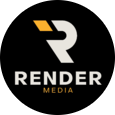
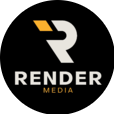
Updates

diff --git a/sw.js b/sw.js
@@ -1,1 +1,1 @@
-if(!self.define){let s,e={};const i=(i,n)=>(i=new URL(i+".js",n).href,e[i]||new Promise((e=>{if("document"in self){const s=document.createElement("script");s.src=i,s.onload=e,document.head.appendChild(s)}else s=i,importScripts(i),e()})).then((()=>{let s=e[i];if(!s)throw new Error(`Module ${i} didn’t register its module`);return s})));self.define=(n,r)=>{const o=s||("document"in self?document.currentScript.src:"")||location.href;if(e[o])return;let l={};const u=s=>i(s,o),a={module:{uri:o},exports:l,require:u};e[o]=Promise.all(n.map((s=>a[s]||u(s)))).then((s=>(r(...s),l)))}}define(["./workbox-1ea6f077"],(function(s){"use strict";self.skipWaiting(),s.clientsClaim(),s.precacheAndRoute([{url:"android-chrome-144x144.png",revision:"f4e79248ad653955ac52f59e81cec89b"},{url:"android-chrome-192x192.png",revision:"ec9118323e19bd6fac33a8bc283b7a27"},{url:"android-chrome-512x512.png",revision:"3a562bc1f7c58152f20265c55b659588"},{url:"apple-touch-icon.png",revision:"fdf0453c9d4116adea0f4927da5cb14f"},{url:"assets/AppLayout-BZPnjsqT.js",revision:null},{url:"assets/AppLayout-CiV0uM38.css",revision:null},{url:"assets/background-icons-C3MNEZqM.svg",revision:null},{url:"assets/BecomeFreelancerView-Bh7CBGfS.css",revision:null},{url:"assets/BecomeFreelancerView-CBme_Z3Y.js",revision:null},{url:"assets/BookingList-BSCRSiwz.js",revision:null},{url:"assets/BookingList-D3RhOOKQ.css",revision:null},{url:"assets/Filming-Location-Background-Dz1fLR32.png",revision:null},{url:"assets/GuestLayout-C_GWFsC3.js",revision:null},{url:"assets/GuestLayout-XMdYVgxi.css",revision:null},{url:"assets/HomeView-BslL6GI0.css",revision:null},{url:"assets/HomeView-BuMfaCQF.js",revision:null},{url:"assets/index-CHzuE5wu.js",revision:null},{url:"assets/index-DSbaSbUD.js",revision:null},{url:"assets/index-vnNXSMUm.css",revision:null},{url:"assets/LoginView-CvuKcC4c.js",revision:null},{url:"assets/MazBadge-CIY0hr5U.css",revision:null},{url:"assets/MazBadge.AdlIDWRs-CqLGBU8U.js",revision:null},{url:"assets/MazSpinner-DQ9_cbMH.css",revision:null},{url:"assets/MazSpinner.Dl1PcqAK-CtqHbj0T.js",revision:null},{url:"assets/no-bookings-found-57le8Je1.js",revision:null},{url:"assets/no-bookings-found-BluZXIsf.png",revision:null},{url:"assets/no-photography.BJX8HSus-CQMntAsz.js",revision:null},{url:"assets/NotFound-CIDb8Njc.css",revision:null},{url:"assets/NotFound-CJblXmGc.js",revision:null},{url:"assets/OfficialLogo-DFmJPRyo.js",revision:null},{url:"assets/OfflineView-DgpDSL0f.js",revision:null},{url:"assets/RegisterView-CCZNf-33.js",revision:null},{url:"assets/SettingsView-B_GCju-I.css",revision:null},{url:"assets/SettingsView-BUON6nMH.js",revision:null},{url:"assets/VerifyView-BLNpvi9c.js",revision:null},{url:"assets/VerifyView-DF9-aY4y.css",revision:null},{url:"favicon-16x16.png",revision:"9cff60910112379111d081e5e198fd95"},{url:"favicon-32x32.png",revision:"e9f984a8534ac3e7cf473b9429fdb36b"},{url:"index.html",revision:"ced586da7f0cf77fdd0b21616177b5b1"},{url:"registerSW.js",revision:"1872c500de691dce40960bb85481de07"},{url:"shortcuts/bookings/192x192.png",revision:"d359ccf2148c3293cfa9daf2b7ca8aab"},{url:"shortcuts/bookings/256x256.png",revision:"2612e4627e5a7f7780eb2fc25389553f"},{url:"shortcuts/bookings/512x512.png",revision:"1391aa2408bf955013b701fc0451cc9e"},{url:"shortcuts/bookings/512x512.svg",revision:"64b4e3b9695b43ab85fe2173884b0a76"},{url:"shortcuts/home/192x192.png",revision:"f7650be41d86b5d742a229f6576e2190"},{url:"shortcuts/home/256x256.png",revision:"be69a3331f8887e7f3dd0fc0d17678cf"},{url:"shortcuts/home/512x512.png",revision:"4bd64900b21884d843e681da6fc36f75"},{url:"shortcuts/home/512x512.svg",revision:"6db896caa39dca66914ae8feede54d83"},{url:"apple-touch-icon.png",revision:"fdf0453c9d4116adea0f4927da5cb14f"},{url:"favicon.ico",revision:"4617a8006e716350c1975a51cd100c38"},{url:"robots.txt",revision:"076ca7d51c63095db8e4ddb474c25986"},{url:"manifest.webmanifest",revision:"3a47596913290daa7babcafde6c2e497"}],{}),s.cleanupOutdatedCaches(),s.registerRoute(new s.NavigationRoute(s.createHandlerBoundToURL("/index.html"))),s.registerRoute(/^https?.*\.(html|js|css|png|jpg|svg)$/,new s.NetworkFirst({cacheName:"dynamic-content-cache",plugins:[new s.ExpirationPlugin({maxEntries:50,maxAgeSeconds:604800})]}),"GET")}));
+if(!self.define){let s,e={};const i=(i,n)=>(i=new URL(i+".js",n).href,e[i]||new Promise((e=>{if("document"in self){const s=document.createElement("script");s.src=i,s.onload=e,document.head.appendChild(s)}else s=i,importScripts(i),e()})).then((()=>{let s=e[i];if(!s)throw new Error(`Module ${i} didn’t register its module`);return s})));self.define=(n,r)=>{const o=s||("document"in self?document.currentScript.src:"")||location.href;if(e[o])return;let l={};const u=s=>i(s,o),a={module:{uri:o},exports:l,require:u};e[o]=Promise.all(n.map((s=>a[s]||u(s)))).then((s=>(r(...s),l)))}}define(["./workbox-1ea6f077"],(function(s){"use strict";self.skipWaiting(),s.clientsClaim(),s.precacheAndRoute([{url:"android-chrome-144x144.png",revision:"c564cedd7a3b74372f68331b8b7291a3"},{url:"android-chrome-192x192.png",revision:"ec9118323e19bd6fac33a8bc283b7a27"},{url:"android-chrome-512x512.png",revision:"3a562bc1f7c58152f20265c55b659588"},{url:"apple-touch-icon.png",revision:"fdf0453c9d4116adea0f4927da5cb14f"},{url:"assets/AppLayout-BZPnjsqT.js",revision:null},{url:"assets/AppLayout-CiV0uM38.css",revision:null},{url:"assets/background-icons-C3MNEZqM.svg",revision:null},{url:"assets/BecomeFreelancerView-Bh7CBGfS.css",revision:null},{url:"assets/BecomeFreelancerView-CBme_Z3Y.js",revision:null},{url:"assets/BookingList-BSCRSiwz.js",revision:null},{url:"assets/BookingList-D3RhOOKQ.css",revision:null},{url:"assets/Filming-Location-Background-Dz1fLR32.png",revision:null},{url:"assets/GuestLayout-C_GWFsC3.js",revision:null},{url:"assets/GuestLayout-XMdYVgxi.css",revision:null},{url:"assets/HomeView-BslL6GI0.css",revision:null},{url:"assets/HomeView-BuMfaCQF.js",revision:null},{url:"assets/index-CHzuE5wu.js",revision:null},{url:"assets/index-DSbaSbUD.js",revision:null},{url:"assets/index-vnNXSMUm.css",revision:null},{url:"assets/LoginView-CvuKcC4c.js",revision:null},{url:"assets/MazBadge-CIY0hr5U.css",revision:null},{url:"assets/MazBadge.AdlIDWRs-CqLGBU8U.js",revision:null},{url:"assets/MazSpinner-DQ9_cbMH.css",revision:null},{url:"assets/MazSpinner.Dl1PcqAK-CtqHbj0T.js",revision:null},{url:"assets/no-bookings-found-57le8Je1.js",revision:null},{url:"assets/no-bookings-found-BluZXIsf.png",revision:null},{url:"assets/no-photography.BJX8HSus-CQMntAsz.js",revision:null},{url:"assets/NotFound-CIDb8Njc.css",revision:null},{url:"assets/NotFound-CJblXmGc.js",revision:null},{url:"assets/OfficialLogo-DFmJPRyo.js",revision:null},{url:"assets/OfflineView-DgpDSL0f.js",revision:null},{url:"assets/RegisterView-CCZNf-33.js",revision:null},{url:"assets/SettingsView-B_GCju-I.css",revision:null},{url:"assets/SettingsView-BUON6nMH.js",revision:null},{url:"assets/VerifyView-BLNpvi9c.js",revision:null},{url:"assets/VerifyView-DF9-aY4y.css",revision:null},{url:"favicon-16x16.png",revision:"9cff60910112379111d081e5e198fd95"},{url:"favicon-32x32.png",revision:"e9f984a8534ac3e7cf473b9429fdb36b"},{url:"index.html",revision:"ced586da7f0cf77fdd0b21616177b5b1"},{url:"registerSW.js",revision:"1872c500de691dce40960bb85481de07"},{url:"shortcuts/bookings/192x192.png",revision:"d359ccf2148c3293cfa9daf2b7ca8aab"},{url:"shortcuts/bookings/256x256.png",revision:"2612e4627e5a7f7780eb2fc25389553f"},{url:"shortcuts/bookings/512x512.png",revision:"1391aa2408bf955013b701fc0451cc9e"},{url:"shortcuts/bookings/512x512.svg",revision:"64b4e3b9695b43ab85fe2173884b0a76"},{url:"shortcuts/home/192x192.png",revision:"f7650be41d86b5d742a229f6576e2190"},{url:"shortcuts/home/256x256.png",revision:"be69a3331f8887e7f3dd0fc0d17678cf"},{url:"shortcuts/home/512x512.png",revision:"4bd64900b21884d843e681da6fc36f75"},{url:"shortcuts/home/512x512.svg",revision:"6db896caa39dca66914ae8feede54d83"},{url:"apple-touch-icon.png",revision:"fdf0453c9d4116adea0f4927da5cb14f"},{url:"favicon.ico",revision:"4617a8006e716350c1975a51cd100c38"},{url:"robots.txt",revision:"076ca7d51c63095db8e4ddb474c25986"},{url:"manifest.webmanifest",revision:"3a47596913290daa7babcafde6c2e497"}],{}),s.cleanupOutdatedCaches(),s.registerRoute(new s.NavigationRoute(s.createHandlerBoundToURL("/index.html"))),s.registerRoute(/^https?.*\.(html|js|css|png|jpg|svg)$/,new s.NetworkFirst({cacheName:"dynamic-content-cache",plugins:[new s.ExpirationPlugin({maxEntries:50,maxAgeSeconds:604800})]}),"GET")}));
